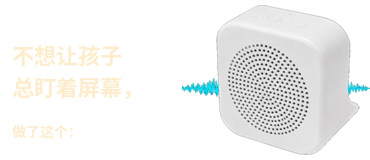
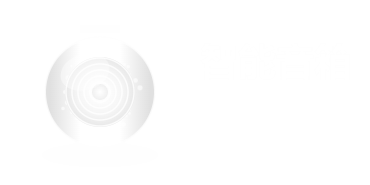
更换banner

diff --git a/pages/index/index.js b/pages/index/index.js
@@ -4,7 +4,12 @@ const { request, checkLogin, showToast } = require('../../utils/request')
 const MAX_INPUT_LENGTH = 299
 Page({
   data: {
-    bannerImages: ['/img/yinxiang.png', '/img/yinxiang1.png', '/img/yinxiang2.png'],
+    // bannerImages: ['/img/yinxiang.png', '/img/yinxiang1.png', '/img/yinxiang2.png'],
+    // bannerImagesTxt:[
+    //   "不想让孩子总盯着屏幕？我们做了这款音箱让孩子多听、少看",
+    //   "古诗、单词、故事一键走进音箱上学路上放着听不用一键可屏蔽",
+    //   "37万首诗词小学全科同步免费使用、无广告不套路，用起来更安心",
+    // ],
     inputText: '',
     voiceIndex: 0,
     voiceList: [
